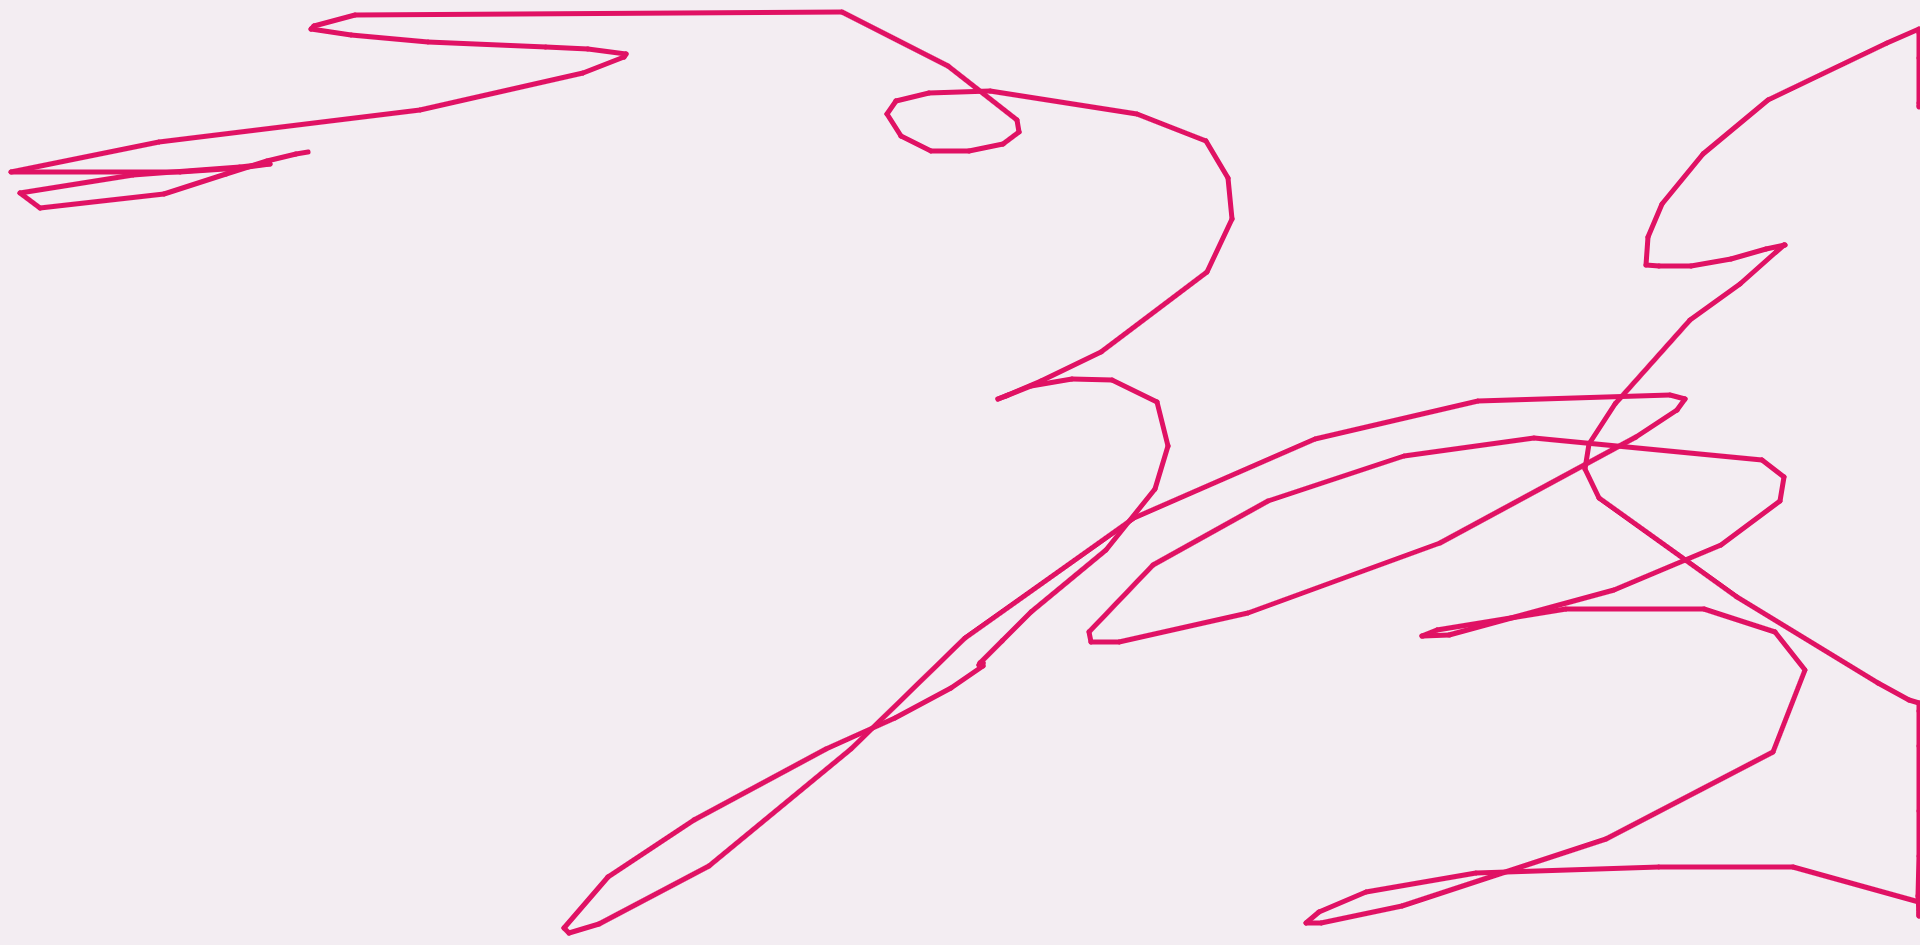
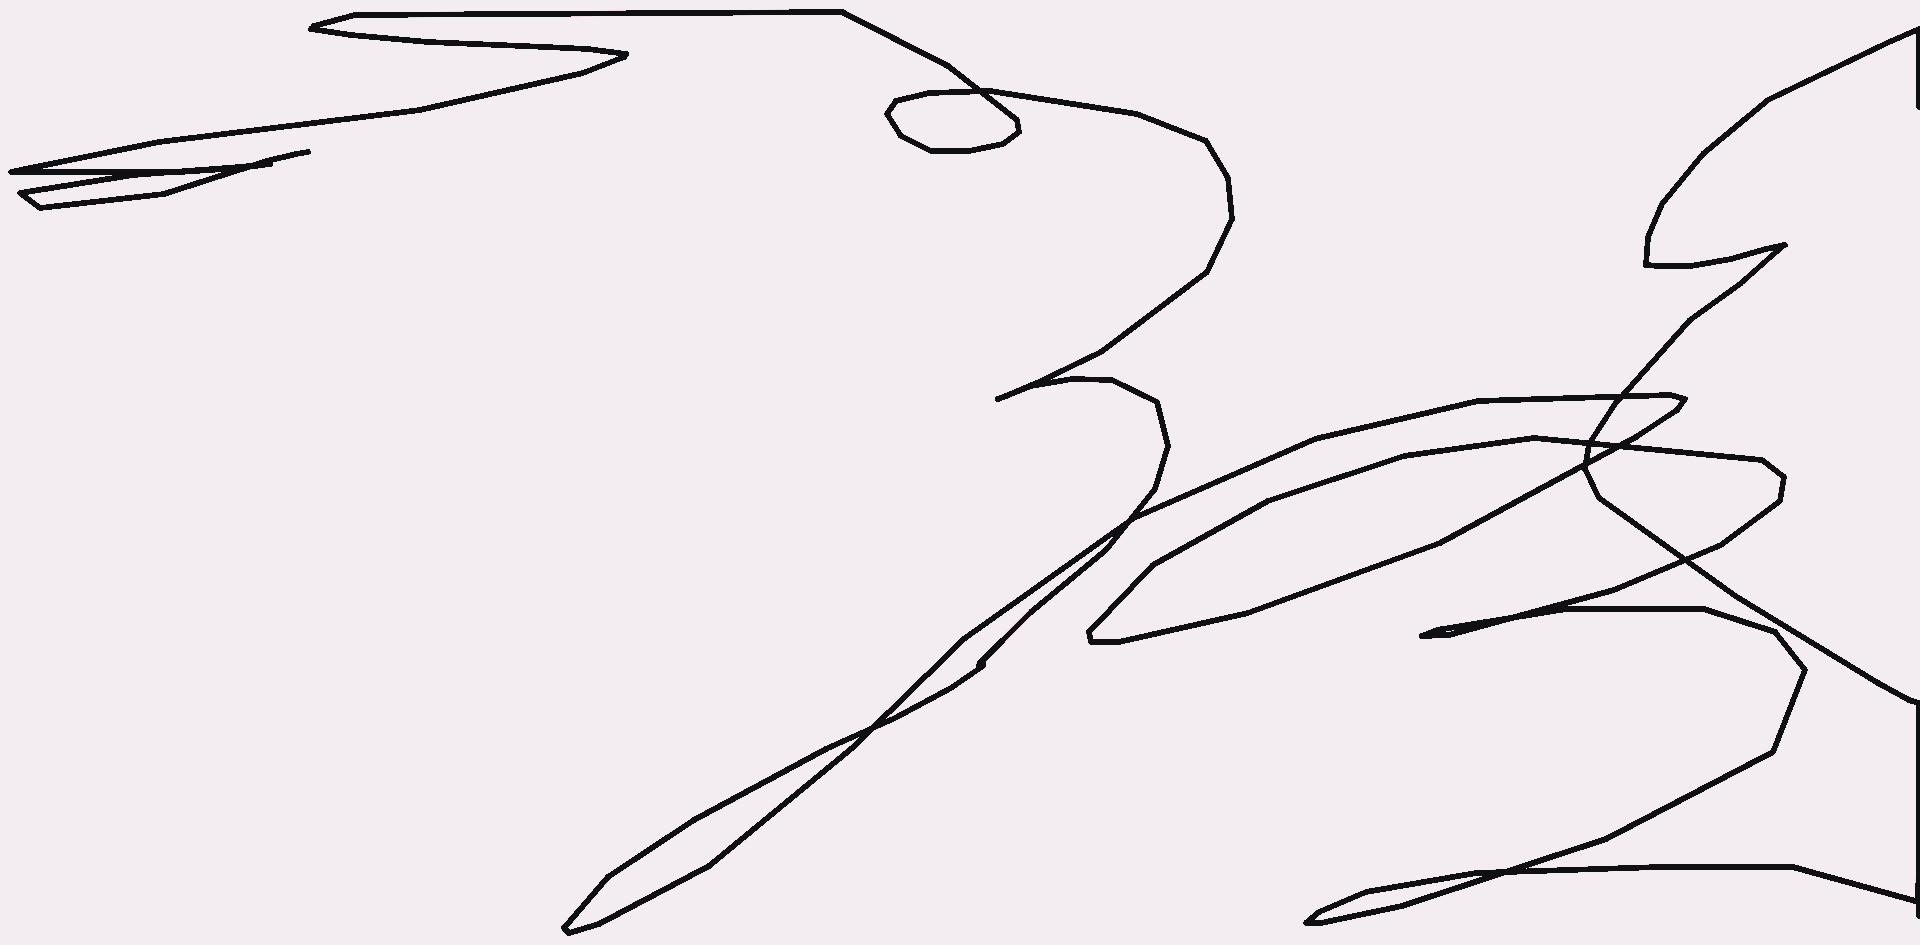
update sto color

diff --git a/style.css b/style.css
@@ -30,13 +30,15 @@
   --accent: var(--rose);
   --accent-bar: #e01264;
   --accent-strong: #a81455;
+  --wheel-stroke: #a01854;
   --text: var(--ink);
   --text-on-dark: #faf8fa;
   --bar-sobre-bg: var(--accent-bar);
   --bar-sobre-border: rgba(255, 255, 255, 0.28);
-  --bar-bottom-bg: var(--skin);
-  --bar-bottom-border: var(--navy);
-  --bar-bottom-fg: var(--ink);
+  --bar-bottom-bg: #ead9e6;
+  --bar-bottom-border: #d4a3bc;
+  --bar-bottom-fg: #4a3858;
+  --bar-archive-surface: var(--bar-bottom-bg);
   --bar-chrome-border: var(--bar-bottom-border);
   --cursor-dot-color: var(--ink);
   --ui-scale: 1;
@@ -185,64 +187,24 @@ body::-webkit-scrollbar {
   stroke-linecap: round;
 }
 
-.cursor-dot.is-hover:not(.is-navel) .cursor-dot__ball {
+.cursor-dot.is-hover .cursor-dot__ball {
   opacity: 0;
   transform: translate(-50%, -50%) scale(0.12);
   transition-delay: 0s;
 }
 
-.cursor-dot.is-hover:not(.is-navel) .cursor-dot__star {
+.cursor-dot.is-hover .cursor-dot__star {
   opacity: 1;
   transform: translate(-50%, -50%) scale(1) rotate(36deg);
   transition-delay: 0.06s;
 }
 
-.cursor-dot:not(.is-hover):not(.is-navel) .cursor-dot__ball {
+.cursor-dot:not(.is-hover) .cursor-dot__ball {
   transition-delay: 0.1s;
 }
 
-.cursor-dot:not(.is-hover):not(.is-navel) .cursor-dot__star {
+.cursor-dot:not(.is-hover) .cursor-dot__star {
   transition-delay: 0s;
-}
-
-.cursor-dot.is-navel .cursor-dot__ball,
-.cursor-dot.is-navel .cursor-dot__star {
-  display: none;
-}
-
-.cursor-dot.is-navel {
-  width: 5.25rem;
-  height: 5.25rem;
-  overflow: hidden;
-  background: var(--skin);
-  border: 1.5px solid var(--accent);
-  mix-blend-mode: normal;
-  transition: background 0.16s ease, border-color 0.16s ease;
-}
-
-.cursor-dot.is-navel.is-hover {
-  background: var(--skin);
-  mix-blend-mode: normal;
-}
-
-.cursor-dot__scene {
-  display: none;
-  position: absolute;
-  top: 0;
-  left: 0;
-  transform-origin: 0 0;
-  pointer-events: none;
-  will-change: transform;
-}
-
-.cursor-dot.is-navel .cursor-dot__scene {
-  display: block;
-}
-
-body.is-umbigo-navel.umbigo-page > .page-header,
-body.site-page.is-umbigo-navel .sobre-roll,
-body.site-page.is-umbigo-navel .star-roll {
-  z-index: 10001;
 }
 
 @media (hover: hover) and (pointer: fine) {
@@ -1730,6 +1692,14 @@ a.page-header__section:hover {
   .star-wheel {
     align-self: center;
     margin: 0 auto;
+    width: clamp(
+      calc(17rem * var(--ui-scale)),
+      min(
+        calc(88vmin * var(--ui-scale)),
+        calc(100dvh - var(--site-top-clearance) - var(--site-bottom-clearance) - calc(0.5rem * var(--ui-scale)))
+      ),
+      calc(36rem * var(--ui-scale))
+    );
   }
 
   .arquivo {
@@ -2072,7 +2042,7 @@ a.page-header__section:hover {
   z-index: 0;
   pointer-events: none;
   background-color: var(--skin);
-  background-image: url("imagens/background-scribble.png");
+  background-image: url("imagens/background-scribble.png?v=2");
   background-repeat: no-repeat;
   background-position: center center;
   background-size: 100% 100%;
@@ -2293,14 +2263,6 @@ a.sobre-roll__title:hover {
   z-index: 2;
   flex: 0 0 auto;
   align-self: flex-start;
-  width: clamp(
-    calc(17rem * var(--ui-scale)),
-    min(
-      calc(66vmin * var(--ui-scale)),
-      calc(100dvh - var(--site-top-clearance) - var(--site-bottom-clearance) - calc(1.5rem * var(--ui-scale)))
-    ),
-    calc(44rem * var(--ui-scale))
-  );
   margin: 0;
   margin-left: clamp(2.25rem, 16vw, 9.75rem);
   padding: 0;
@@ -2309,6 +2271,32 @@ a.sobre-roll__title:hover {
   transform: none;
   cursor: pointer;
   -webkit-tap-highlight-color: transparent;
+}
+
+@media (min-width: 1024px) and (max-width: 1599px) {
+  .star-wheel {
+    width: clamp(
+      calc(16rem * var(--ui-scale)),
+      min(
+        calc(63vmin * var(--ui-scale)),
+        calc(100dvh - var(--site-top-clearance) - var(--site-bottom-clearance) - calc(1.5rem * var(--ui-scale)))
+      ),
+      calc(41rem * var(--ui-scale))
+    );
+  }
+}
+
+@media (min-width: 1600px) {
+  .star-wheel {
+    width: clamp(
+      calc(14rem * var(--ui-scale)),
+      min(
+        calc(48vmin * var(--ui-scale)),
+        calc(100dvh - var(--site-top-clearance) - var(--site-bottom-clearance) - calc(1.5rem * var(--ui-scale)))
+      ),
+      calc(31rem * var(--ui-scale))
+    );
+  }
 }
 
 .wheel-figure {
@@ -2358,7 +2346,7 @@ a.sobre-roll__title:hover {
 }
 
 .wheel-figure__lines line {
-  stroke: var(--cursor-dot-color);
+  stroke: var(--wheel-stroke);
   stroke-width: 2px;
   stroke-linecap: round;
 }
@@ -2618,7 +2606,7 @@ a.sobre-roll__title:hover {
   height: var(--archive-panel-expanded-height);
   border-radius: var(--site-bar-radius);
   overflow: hidden;
-  background: var(--skin);
+  background: var(--bar-archive-surface);
   transition: height var(--archive-panel-duration) var(--archive-panel-ease);
 }
 
@@ -3021,7 +3009,7 @@ a.sobre-roll__title:hover {
 }
 
 .star-flight__strokes line {
-  stroke: var(--cursor-dot-color);
+  stroke: var(--wheel-stroke);
   stroke-width: 2px;
   stroke-linecap: round;
 }
@@ -3248,12 +3236,12 @@ a.sobre-roll__title:hover {
 
   .star-wheel {
     width: clamp(
-      calc(15rem * var(--ui-scale)),
+      calc(18rem * var(--ui-scale)),
       min(
-        calc(78vmin * var(--ui-scale)),
-        calc(100dvh - var(--site-top-clearance) - var(--site-bottom-clearance) - calc(1rem * var(--ui-scale)))
+        calc(92vmin * var(--ui-scale)),
+        calc(100dvh - var(--site-top-clearance) - var(--site-bottom-clearance) - calc(0.35rem * var(--ui-scale)))
       ),
-      calc(28rem * var(--ui-scale))
+      calc(38rem * var(--ui-scale))
     );
   }
 

diff --git a/umbigo-text.js b/umbigo-text.js
@@ -11,13 +11,6 @@ import {
 
 const originals = new WeakMap();
 const MIN_SEG = 28;
-const ZOOM = 1.9;
-const canHover = window.matchMedia("(hover: hover) and (pointer: fine)");
-const reduceMotion = window.matchMedia("(prefers-reduced-motion: reduce)");
-
-let pointer = { x: -9999, y: -9999 };
-let navelOn = false;
-let raf = 0;
 
 function visibleSection() {
   return document.querySelector(".umbigo-copy section:not([hidden])");
@@ -230,112 +223,6 @@ function layoutVisible() {
     console.warn("Pretext layout skipped", error);
     section.querySelectorAll(".umbigo-verse, .umbigo-essay p").forEach(restore);
   }
-  fillLens();
-}
-
-function setNavel(on) {
-  if (on === navelOn) return;
-  navelOn = on;
-  const dot = document.querySelector(".cursor-dot");
-  if (dot) dot.classList.toggle("is-navel", on);
-  document.body.classList.toggle("is-umbigo-navel", on);
-}
-
-function copySource() {
-  return document.querySelector(".umbigo-copy");
-}
-
-function fillLens() {
-  const dot = document.querySelector(".cursor-dot");
-  if (!dot) return;
-  let scene = dot.querySelector(".cursor-dot__scene");
-  if (!scene) {
-    scene = document.createElement("div");
-    scene.className = "cursor-dot__scene";
-    scene.setAttribute("aria-hidden", "true");
-    dot.appendChild(scene);
-  }
-  const source = copySource();
-  scene.innerHTML = "";
-  if (!source) return;
-  const clone = source.cloneNode(true);
-  clone.querySelectorAll("script").forEach(function (node) {
-    node.remove();
-  });
-  scene.style.width = source.offsetWidth + "px";
-  scene.appendChild(clone);
-}
-
-function overEssay() {
-  const essay = document.querySelector(
-    ".umbigo-copy section:not([hidden]) .umbigo-essay"
-  );
-  if (!essay) return false;
-  const rect = essay.getBoundingClientRect();
-  return (
-    pointer.x >= rect.left &&
-    pointer.x <= rect.right &&
-    pointer.y >= rect.top &&
-    pointer.y <= rect.bottom
-  );
-}
-
-function overSiteChrome() {
-  const nodes = document.querySelectorAll(
-    "body.umbigo-page > .page-header, .sobre-roll, .star-roll:not([hidden])"
-  );
-  for (let i = 0; i < nodes.length; i++) {
-    const rect = nodes[i].getBoundingClientRect();
-    if (
-      pointer.x >= rect.left &&
-      pointer.x <= rect.right &&
-      pointer.y >= rect.top &&
-      pointer.y <= rect.bottom
-    ) {
-      return true;
-    }
-  }
-  return false;
-}
-
-function updateLens() {
-  const dot = document.querySelector(".cursor-dot");
-  const source = copySource();
-  if (!dot || !source) return;
-  const scene = dot.querySelector(".cursor-dot__scene");
-  if (!scene) return;
-  const rect = source.getBoundingClientRect();
-  const r = dot.offsetWidth / 2;
-  const lx = pointer.x - rect.left;
-  const ly = pointer.y - rect.top;
-  scene.style.transform =
-    "translate(" +
-    (r - lx * ZOOM) +
-    "px, " +
-    (r - ly * ZOOM) +
-    "px) scale(" +
-    ZOOM +
-    ")";
-}
-
-function tickNavel() {
-  raf = 0;
-  setNavel(overEssay() && !overSiteChrome());
-  if (navelOn) updateLens();
-}
-
-function onPointerMove(event) {
-  pointer.x = event.clientX;
-  pointer.y = event.clientY;
-  if (raf) return;
-  raf = window.requestAnimationFrame(tickNavel);
-}
-
-function onPointerLeave() {
-  pointer.x = -9999;
-  pointer.y = -9999;
-  if (raf) window.cancelAnimationFrame(raf);
-  raf = window.requestAnimationFrame(tickNavel);
 }
 
 let timer = 0;
@@ -368,8 +255,3 @@ document.addEventListener("avv-lang", schedule);
 document.addEventListener("umbigo-mounted", schedule);
 window.matchMedia("(max-width: 767px)").addEventListener("change", schedule);
 window.matchMedia("(pointer: coarse)").addEventListener("change", schedule);
-
-if (canHover.matches && !reduceMotion.matches) {
-  window.addEventListener("pointermove", onPointerMove, { passive: true });
-  document.addEventListener("mouseleave", onPointerLeave);
-}

diff --git a/index.html b/index.html
@@ -8,7 +8,7 @@
   <meta http-equiv="Expires" content="0">
   <title>Ana Vitória Versos</title>
   <script src="ui-scale.js?v=1"></script>
-  <link rel="stylesheet" href="style.css?v=294">
+  <link rel="stylesheet" href="style.css?v=307">
 </head>
 <body class="site-page" data-manifest="images.json?v=12">
   <div class="sobre-roll">
@@ -146,7 +146,7 @@
   <section class="site-hero" id="topo">
     <button type="button" class="star-wheel" data-star aria-label="Roleta">
       <span class="wheel-figure">
-        <img class="wheel-figure__img" src="imagens/rodada_feia.png" alt="">
+        <img class="wheel-figure__img" src="imagens/rodada_feia.png?v=4" alt="">
       </span>
     </button>
   </section>
@@ -170,7 +170,7 @@
               <line x1="12" y1="12" x2="6.12" y2="20.09" />
               <line x1="12" y1="12" x2="2.49" y2="8.91" />
             </svg>
-            <img class="wheel-figure__img" src="imagens/rodada_feia.png" alt="">
+            <img class="wheel-figure__img" src="imagens/rodada_feia.png?v=4" alt="">
           </span>
         </span>
       </button>
@@ -179,7 +179,7 @@
 
   <script src="nav.js?v=45"></script>
   <script src="archive-scatter.js?v=15"></script>
-  <script type="module" src="umbigo-text.js?v=2"></script>
+  <script type="module" src="umbigo-text.js?v=18"></script>
   <script src="site.js?v=52"></script>
 </body>
 </html>

diff --git a/umbigo.html b/umbigo.html
@@ -8,7 +8,7 @@
   <meta http-equiv="Expires" content="0">
   <title>Umbigo</title>
   <script src="ui-scale.js?v=1"></script>
-  <link rel="stylesheet" href="style.css?v=280">
+  <link rel="stylesheet" href="style.css?v=295">
 </head>
 <body class="arquivo-page umbigo-page" data-title="Umbigo">
   <header class="page-header">
@@ -154,6 +154,6 @@
   </main>
 
   <script src="nav.js?v=39"></script>
-  <script type="module" src="umbigo-text.js?v=17"></script>
+  <script type="module" src="umbigo-text.js?v=18"></script>
 </body>
 </html>
